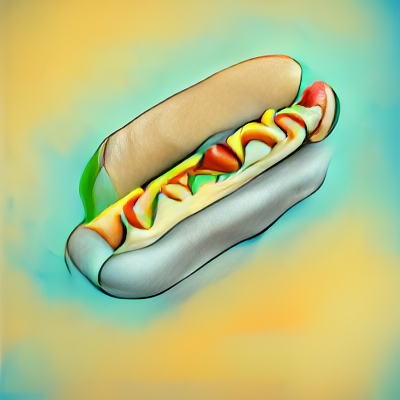
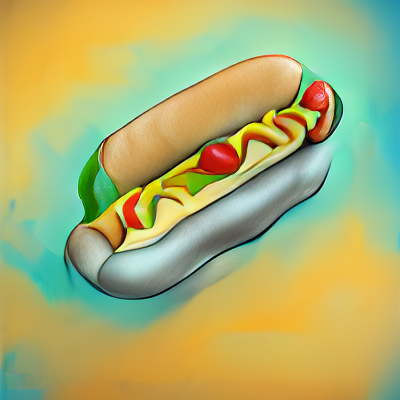
January 26, 2022 6:01 PM

diff --git a/train.py b/train.py
@@ -34,7 +34,7 @@ parser.add_argument('--vqgan_model', type=str, default='ImageNet' )
 parser.add_argument('--clip_model', type=str, default='ViT-B/32' )
 parser.add_argument('--display_freq', type=int, default= 10)
 parser.add_argument('--log_edges', type=int, default=0)
-parser.add_argument('--max_iterations', type=int, default=30)
+parser.add_argument('--max_iterations', type=int, default=80)
 parser.add_argument('--seed', type=int, default=-1 )
 parser.add_argument('--width', type=int, default= 400 )
 parser.add_argument('--height', type=int, default= 400 )
